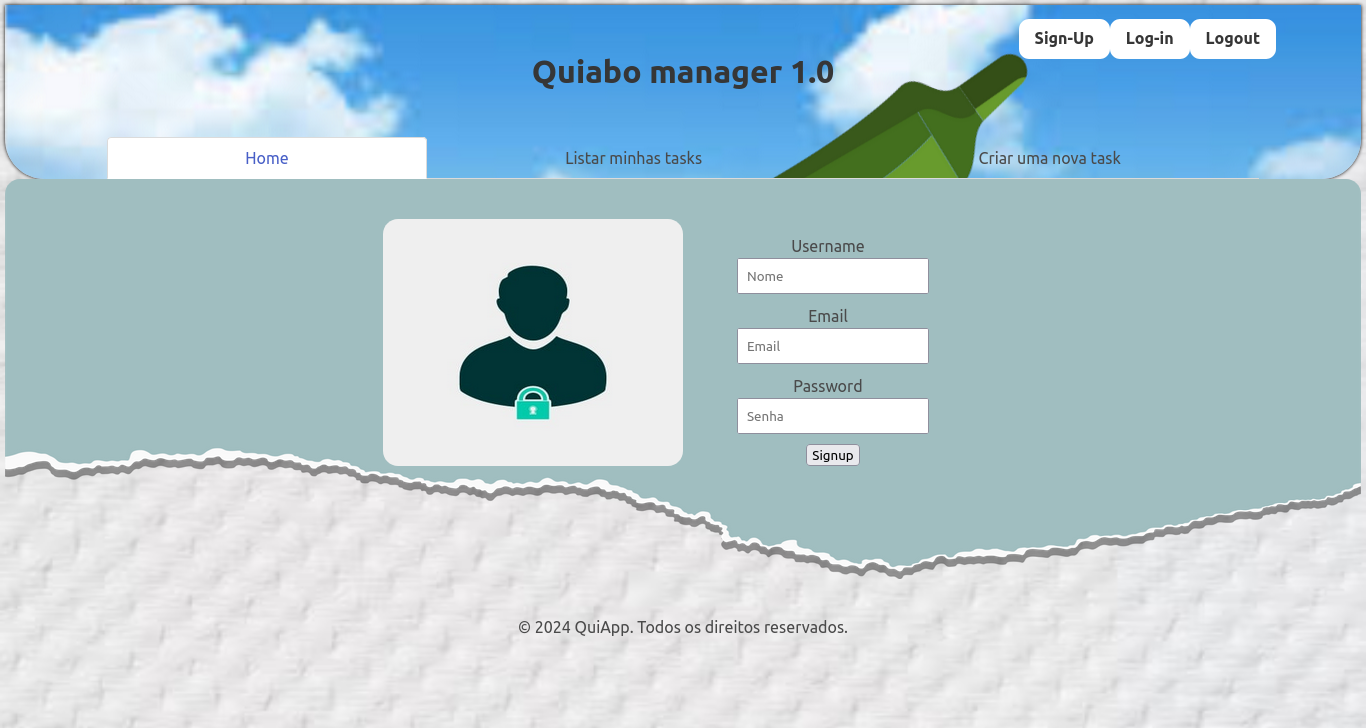
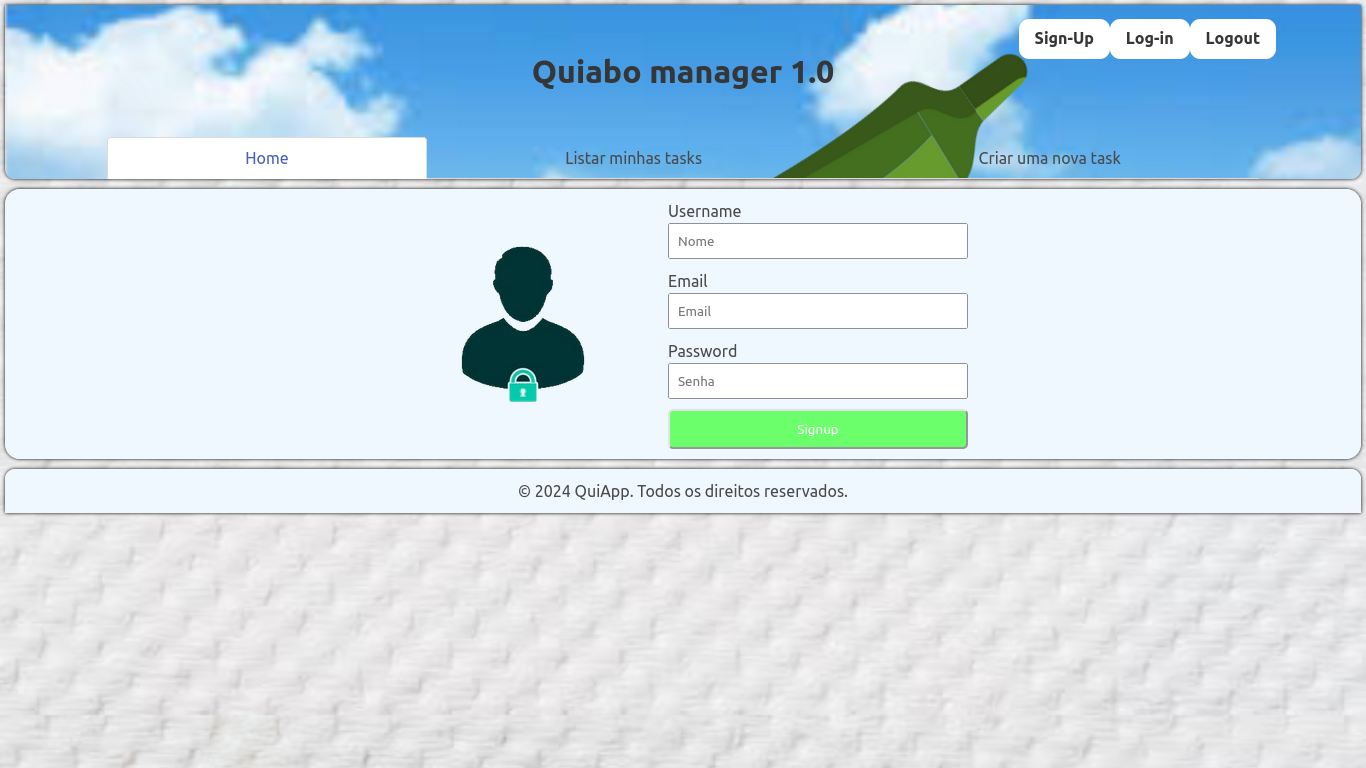
[style] frontend splitted in 3 visual parts: header, body & footer [fix] signup img was streched and got transparent background [removed] unused img files [change] demo img

diff --git a/app/assets/stylesheets/custom_styles.css b/app/assets/stylesheets/custom_styles.css
@@ -12,21 +12,21 @@ body {
   background-image: url('logo.png');
   background-repeat: repeat-y;
   background-size: cover;
-  border-end-start-radius: 40px;
-  border-end-end-radius: 40px;
+  border-end-start-radius: 10px;
+  border-end-end-radius: 10px;
   box-shadow: 0 0 3px rgba(0, 0, 0, 10);
 }
-header.navbar {
-  position: fixed;
-  padding-top: 1%;
-  width: 100%;
-  background-color: transparent;
-}
-.button{
-  border-radius: 10px;
-  font-weight: bold;
-  border: none;
-}
+  header.navbar {
+    position: fixed;
+    padding-top: 1%;
+    width: 100%;
+    background-color: transparent;
+  }
+    .button{
+      border-radius: 10px;
+      font-weight: bold;
+      border: none;
+    }
 
 
 .div-notice{
@@ -42,49 +42,63 @@ header.navbar {
   background-color: rgb(252, 70, 70);
   margin: 0 auto;
 }
-#notice{
-  font-weight: bold;
-  color: rgb(32, 32, 32);
-}
+  #notice{
+    font-weight: bold;
+    color: rgb(32, 32, 32);
+  }
 
 
 .container-yield{
-  height: 400px;
-  background-image: url('body-background.png');
+  height: auto;
+  background-color: aliceblue;
   background-repeat: round;
   border-radius: 15px;
+  box-shadow: 0 0 3px rgba(0, 0, 0, 10);
 }
-.container-user-form-screen{
-  display: flex;
-  justify-content: center;
-  flex-direction: row;
-  flex-wrap: wrap;
-  height: 70%;
-  border-radius: 15px;
-}
-.left-side-signup{
-  background-image: url('user-signup-left-side.jpg');
-  width: 300px;
-  background-repeat: round;
-  border-radius: inherit;
-}
-.right-side-signup{
-  width: 300px;
-  border-radius: inherit;
-}
-.form-user-textboxes{
-  display: flex;
-  flex-direction: column;
-  width: 100%;
-}
-.form-user-textboxes label {
-  padding-right: 10px;
-}
-.form-user-textboxes input[type="text"], input[type="password"] {
-  padding: 8px;
-  margin-bottom: 10px;
-}
+  .container-user-form-screen{
+    margin: 10px;
+    display: flex;
+    justify-content: center;
+    flex-direction: row;
+    flex-wrap: wrap;
+    border-radius: inherit;
+  }
+    .left-side-signup{
+      margin: inherit;
+      background-image: url('user-signup-left-side.png');
+      width: 250px;
+      border-radius: inherit;
+      background-size: cover;
+    }
+    .right-side-signup{
+      margin: inherit;
+      width: 300px;
+      border-radius: inherit;
+    }
+      .form-user-textboxes{
+        display: flex;
+        flex-direction: column;
+        width: 100%;
+      }
+      .form-user-textboxes label {
+        padding-right: 10px;
+      }
+      .form-user-textboxes input[type="text"], input[type="password"] {
+        padding: 8px;
+        margin-bottom: 10px;
+      }
+      #user-signup-button {
+        display: inline-block;
+        padding: 10px 20px;
+        color: #fff;
+        background-color: #6bff6b;
+        border-radius: 5px;
+        cursor: pointer;
+    }
 
+.form-login-textbox{
+
+}
 
 .task-list {
   display: flex;
@@ -93,37 +107,44 @@ header.navbar {
   list-style: none;
   padding: 0;
 }
-.task-list li {
-  width: calc(30% - 20px);
-  margin-bottom: 20px;
-  margin-right: 20px;
-  padding: 10px;
-  border: 1px solid #ccc;
-  border-radius: 5px;
-  transition: transform 0.3s ease;
-  background-color: #c7f464;
-}
-.task-list li:hover {
-  transform: scale(1.1);
-  z-index: 1;
-}
-.form-task-textbox{
-  display: grid;
-  justify-content: center;
-}
-.task-id, .task-title, .task-content {
-  color: black;
-}
+  .task-list li {
+    width: calc(30% - 20px);
+    margin-bottom: 20px;
+    margin-right: 20px;
+    padding: 10px;
+    border: 1px solid #ccc;
+    border-radius: 5px;
+    transition: transform 0.3s ease;
+    background-color: #c7f464;
+  }
+  .task-list li:hover {
+    transform: scale(1.1);
+    z-index: 1;
+  }
+    .form-task-textbox{
+      display: grid;
+      justify-content: center;
+    }
+    .task-id, .task-title, .task-content {
+      color: black;
+    }
 
+#footer-background{
+  height: auto;
+}
+  .footer {
+    padding: 10px;
+    display: flex;
+    flex-direction: column;
+    justify-content: center;
+    align-items: center;
+    background-color: aliceblue;
+    border-start-end-radius: 10px;
+    border-start-start-radius: 10px;
 
-.footer {
-  display: flex;
-  flex-direction: column;
-  justify-content: center;
-  align-items: center;
-  background-color: transparent;
-  height: 100px;
-}
-#sessionTimer{
-  opacity: 0.4;
-}
+    box-shadow: 0 0 3px rgba(0, 0, 0, 10);
+    height: auto;
+  }
+  #sessionTimer{
+    opacity: 0.4;
+  }
